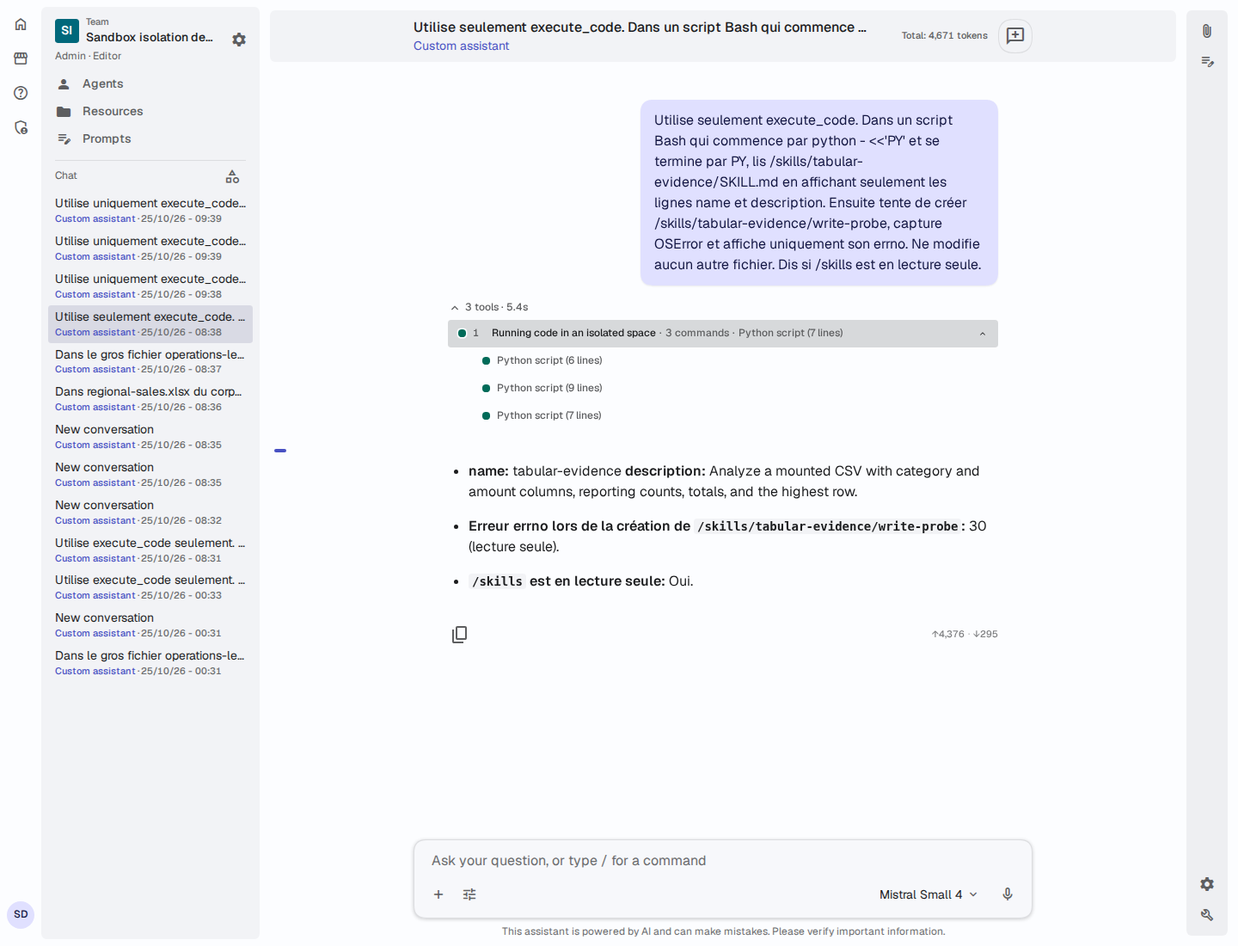
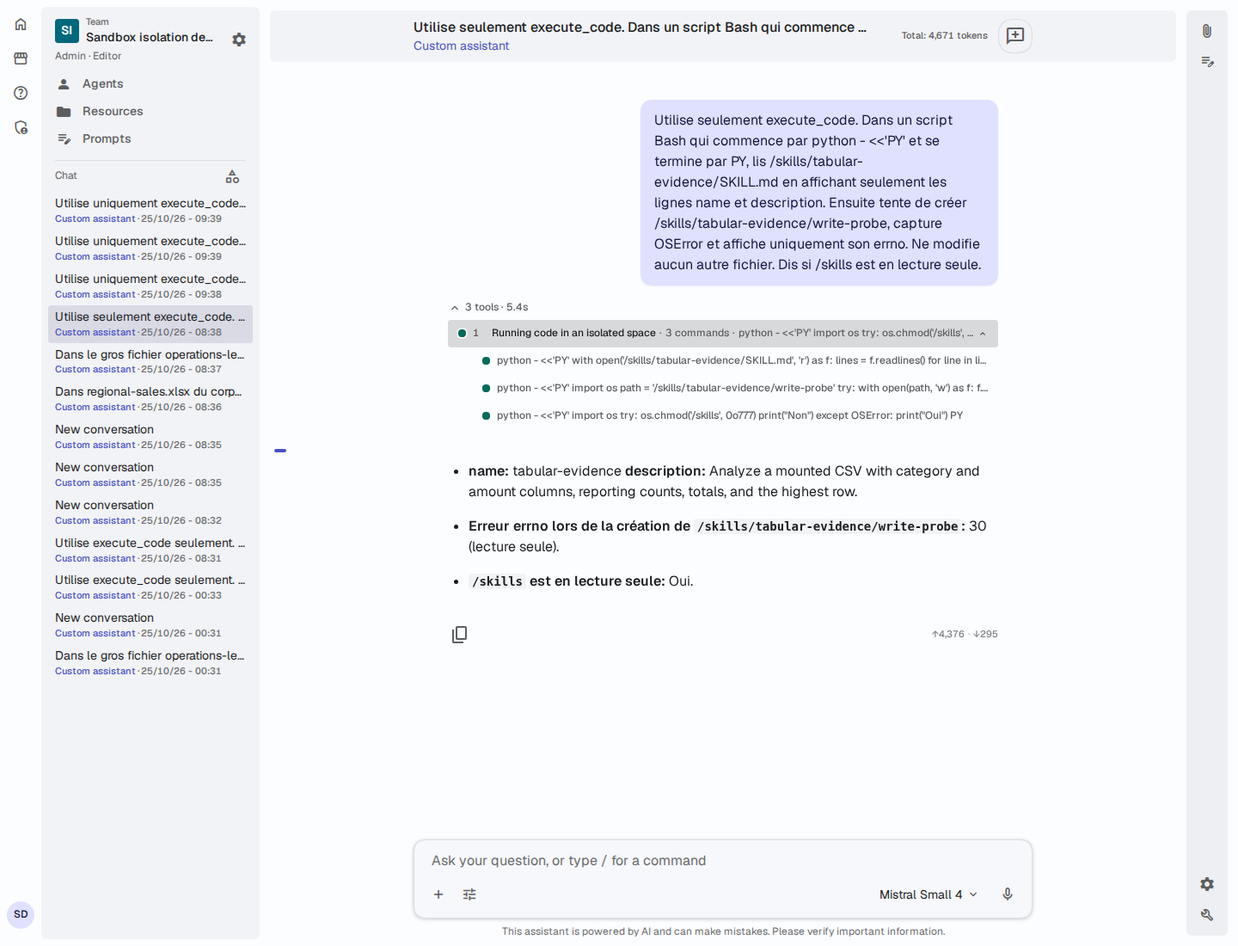
impr(#3226): flatten sandbox code previews in trace

Changed region(s): [[0.4062, 0.34, 0.7812, 0.4636]]

diff --git a/docs/agent-sandbox-stack.html b/docs/agent-sandbox-stack.html
@@ -173,7 +173,7 @@ document.addEventListener('DOMContentLoaded', function () {
 <section class="slide divider" data-part="3"><p class="kicker">Partie 3</p><div class="body"><div class="n">3</div><h1>Chaque couche a une responsabilité mesurable</h1></div><div class="contents"><span><b>1</b>Contrats et capability</span><span><b>2</b>Broker et isolation</span><span><b>3</b>Admin et déploiement</span></div></section>
 <section class="slide" data-part="3"><p class="kicker">Partie 3</p><h2>Le SDK fixe un contrat indépendant du backend</h2><p class="lede">Un script Bash, une identité privée, un résultat borné et un port abstrait.</p><div class="body"><div class="grid cols3"><div class="card add"><span class="tag">+</span><b class="name">SandboxRequest</b><small><span class="chip c1">fred-sdk</span> <code>fred_sdk/contracts/sandbox.py:16</code></small><p>script Bash limité à 16 384 caractères.</p></div><div class="card add"><span class="tag">+</span><b class="name">SandboxSessionIdentity</b><small><span class="chip c1">fred-sdk</span> <code>fred_sdk/contracts/sandbox.py:23</code></small><p>user, team et conversation restent hors du schéma LLM.</p></div><div class="card add"><span class="tag">+</span><b class="name">SandboxResult</b><small><span class="chip c1">fred-sdk</span> <code>fred_sdk/contracts/sandbox.py:32</code></small><p>stdout, stderr, timeout et sortie tronquée.</p></div><div class="card add"><span class="tag">+</span><b class="name">SandboxError</b><small><span class="chip c1">fred-sdk</span> <code>fred_sdk/contracts/sandbox.py:43</code></small><p>Codes bornés, pas de traceback brut vers le modèle.</p></div><div class="card add"><span class="tag">+</span><b class="name">SandboxExecutionPort</b><small><span class="chip c1">fred-sdk</span> <code>fred_sdk/contracts/sandbox.py:61</code></small><p>execute(request, session) rend le backend interchangeable.</p></div><div class="card add"><span class="tag">+</span><b class="name">Tests du contrat</b><small><span class="chip c1">fred-sdk</span> <code>tests/test_sandbox_contract.py</code></small><p>Validation stricte des modèles et du port.</p></div></div></div></section>
 <section class="slide" data-part="3"><p class="kicker">Partie 3</p><h2>La capability expose un outil administré</h2><p class="lede">Le modèle ne choisit ni image, ni runtime, ni ressource.</p><div class="body"><div class="grid cols3"><div class="card add"><span class="tag">+</span><b class="name">CodeSandboxCapability</b><small><span class="chip c2">capability</span> <code>fred_capability_code_sandbox/capability.py:32</code></small><p>ID code_sandbox, TeamScopePolicy.ADMIN_GATED.</p></div><div class="card add"><span class="tag">+</span><b class="name">execute_code</b><small><span class="chip c2">capability</span> <code>fred_capability_code_sandbox/capability.py:46</code></small><p>Argument code uniquement; démarre le workload au premier appel.</p></div><div class="card add"><span class="tag">+</span><b class="name">Session privée</b><small><span class="chip c2">capability</span> <code>fred_capability_code_sandbox/capability.py:55</code></small><p>Dérivée de ctx.identity, jamais demandée au modèle.</p></div><div class="card add"><span class="tag">+</span><b class="name">Résultat outil</b><small><span class="chip c2">capability</span> <code>fred_capability_code_sandbox/capability.py:72</code></small><p>JSON explicite; sortie considérée comme donnée non fiable.</p></div><div class="card add"><span class="tag">+</span><b class="name">Vue automatique /inputs</b><small><span class="chip c2">capability</span> <code>fred_capability_code_sandbox/capability.py</code></small><p>La vue est préparée avant le premier execute_code; /inputs/corpus et /inputs/attachments sont listés automatiquement.</p></div><div class="card add"><span class="tag">+</span><b class="name">Tests capability</b><small><span class="chip c2">capability</span> <code>tests/test_capability.py</code></small><p>Fake port, schéma et préparation de la vue autorisée.</p></div></div></div></section>
-<section class="slide" data-part="3"><p class="kicker">Partie 3 - recherche par code</p><h2>Filtrer dans la sandbox avant de répondre</h2><p class="lede">La consigne demande à l'agent d'écrire du Bash dans execute_code et d'appeler Python depuis le shell et de ne renvoyer que des extraits ciblés.</p><div class="body"><div class="grid cols3"><div class="card add"><h3>Découvrir</h3><p>Un glob ou find restreint les noms et les répertoires. Éviter l'inventaire complet de /inputs.</p></div><div class="card add"><h3>Texte</h3><p>La consigne propose grep -F pour les termes littéraux et Python pour cinq extraits de 240 caractères au plus.</p></div><div class="card add"><h3>Variantes</h3><p>Échapper les termes avant la regex, puis accepter espaces, tirets et underscores; ignorer la casse.</p></div><div class="card sec"><h3>Documents</h3><p>Inspecter pages, paragraphes ou slides un à un. N'imprimer que les extraits trouvés et leur emplacement.</p></div><div class="card sec"><h3>Tables</h3><p>Filtrer lignes et colonnes CSV; ouvrir Excel en lecture seule, puis agréger les seules lignes utiles.</p></div><div class="card same"><h3>Présentation</h3><p>La trace regroupe les appels de code consécutifs. Son en-tête garde le nombre de commandes et celle en cours. Un court commentaire # en début de script sert de libellé; sans commentaire, un heredoc Python devient Script Python (N lignes). Le détail conserve le script Bash et le résultat complets. Un code de sortie non nul marque la commande en échec. Un autre outil coupe le groupe.</p></div></div></div></section>
+<section class="slide" data-part="3"><p class="kicker">Partie 3 - recherche par code</p><h2>Filtrer dans la sandbox avant de répondre</h2><p class="lede">La consigne demande à l'agent d'écrire du Bash dans execute_code et d'appeler Python depuis le shell et de ne renvoyer que des extraits ciblés.</p><div class="body"><div class="grid cols3"><div class="card add"><h3>Découvrir</h3><p>Un glob ou find restreint les noms et les répertoires. Éviter l'inventaire complet de /inputs.</p></div><div class="card add"><h3>Texte</h3><p>La consigne propose grep -F pour les termes littéraux et Python pour cinq extraits de 240 caractères au plus.</p></div><div class="card add"><h3>Variantes</h3><p>Échapper les termes avant la regex, puis accepter espaces, tirets et underscores; ignorer la casse.</p></div><div class="card sec"><h3>Documents</h3><p>Inspecter pages, paragraphes ou slides un à un. N'imprimer que les extraits trouvés et leur emplacement.</p></div><div class="card sec"><h3>Tables</h3><p>Filtrer lignes et colonnes CSV; ouvrir Excel en lecture seule, puis agréger les seules lignes utiles.</p></div><div class="card same"><h3>Présentation</h3><p>La trace regroupe les appels de code consécutifs. Son en-tête garde le nombre de commandes et celle en cours. Un court commentaire # en début de script précède le code soumis, dont les retours à la ligne sont remplacés par des espaces dans un aperçu sur une ligne, tronqué avec ... si nécessaire. Le heredoc et son contenu restent visibles dans cet aperçu jusqu'à la troncature. Le détail conserve le script Bash et le résultat complets. Un code de sortie non nul marque la commande en échec. Un autre outil coupe le groupe.</p></div></div></div></section>
 <section class="slide" data-part="3"><p class="kicker">Partie 3</p><h2>Le runtime crée un adaptateur HTTP privé</h2><p class="lede">Le runtime garde l’autorisation des outils et ajoute le broker comme service optionnel.</p><div class="body"><div class="grid cols3"><div class="card add"><span class="tag">+</span><b class="name">SandboxHttpAdapter</b><small><span class="chip c3">fred-runtime</span> <code>fred_runtime/sandbox_http.py:23</code></small><p>HTTPS + bearer; validation de réponse et erreurs bornées.</p></div><div class="card add"><span class="tag">+</span><b class="name">Configuration</b><small><span class="chip c3">fred-runtime</span> <code>fred_runtime/sandbox_http.py:59</code></small><p>URL et token viennent de l’environnement du pod.</p></div><div class="card add"><span class="tag">+</span><b class="name">Service binding</b><small><span class="chip c3">fred-runtime</span> <code>fred_runtime/app/agent_app.py:6740</code></small><p>Injecte le port lors de l’activation des capabilities.</p></div><div class="card add"><span class="tag">+</span><b class="name">Runtime context</b><small><span class="chip c3">fred-runtime</span> <code>fred_runtime/runtime_context.py</code></small><p>Transporte l’identité de conversation sans argument LLM.</p></div><div class="card add"><span class="tag">+</span><b class="name">Tests HTTP</b><small><span class="chip c3">fred-runtime</span> <code>tests/test_sandbox_http.py</code></small><p>Vérifient transport et erreurs.</p></div><div class="card same"><span class="tag">=</span><b class="name">Contrat gelé</b><small><span class="chip c3">fred-runtime</span> <code>docs/swift/design/RUNTIME-EXECUTION-CONTRACT.md</code></small><p>Le pod reste l’autorité des droits d’exécution Fred.</p></div></div></div></section>
 <section class="slide" data-part="3"><p class="kicker">Partie 3</p><h2>Le pod agents installe la capability</h2><p class="lede">L’entrée de découverte reste unique pour ReAct, Deep et Graph.</p><div class="body"><div class="grid cols3"><div class="card add"><span class="tag">+</span><b class="name">Dépendance</b><small><span class="chip c4">fred-agents</span> <code>pyproject.toml:25</code></small><p>Le package capability entre dans l’image agents.</p></div><div class="card add"><span class="tag">+</span><b class="name">Source editable</b><small><span class="chip c4">fred-agents</span> <code>pyproject.toml:73</code></small><p>Le workspace relie le package local.</p></div><div class="card add"><span class="tag">+</span><b class="name">Image</b><small><span class="chip c4">fred-agents</span> <code>dockerfiles/Dockerfile-prod</code></small><p>Le Dockerfile copie et installe la capability.</p></div><div class="card add"><span class="tag">+</span><b class="name">Boot invariant</b><small><span class="chip c4">fred-agents</span> <code>tests/test_capability_boot.py:126</code></small><p>Le test de découverte épingle code_sandbox.</p></div><div class="card add"><span class="tag">+</span><b class="name">Configuration runtime</b><small><span class="chip c4">fred-agents</span> <code>dockerfiles/Dockerfile-prod</code></small><p>Endpoint broker et bearer restent côté pod.</p></div></div></div></section>
 <section class="slide" data-part="3"><p class="kicker">Partie 3</p><h2>Le broker borne chaque lease et chaque exécution</h2><p class="lede">Son interface interne est preflight, prepare, execute, dispose.</p><div class="body"><div class="grid cols4"><div class="card add"><span class="tag">+</span><b class="name">API</b><small><span class="chip c5">sandbox-broker</span> <code>sandbox_broker/api.py:33</code></small><p>Bearer, tailles et admission.</p></div><div class="card add"><span class="tag">+</span><b class="name">Backend protocol</b><small><span class="chip c5">sandbox-broker</span> <code>sandbox_broker/backend.py:27</code></small><p>Une lease typée pour trois implémentations.</p></div><div class="card add"><span class="tag">+</span><b class="name">ConversationPool</b><small><span class="chip c5">sandbox-broker</span> <code>sandbox_broker/sessions.py:29</code></small><p>Sérialisation et idle expiry.</p></div><div class="card add"><span class="tag">+</span><b class="name">Process sweep</b><small><span class="chip c5">sandbox-broker</span> <code>sandbox_broker/process_cleanup.py:39</code></small><p>Détruit les descendants détachés avant réusage.</p></div><div class="card add"><span class="tag">+</span><b class="name">Kubernetes Job</b><small><span class="chip c5">sandbox-broker</span> <code>sandbox_broker/kubernetes_backend.py:23</code></small><p>RuntimeClass, deadline et TTL.</p></div><div class="card add"><span class="tag">+</span><b class="name">SIG Agent Sandbox</b><small><span class="chip c5">sandbox-broker</span> <code>sandbox_broker/agent_sandbox_backend.py:21</code></small><p>Claim, pool upstream et expiry.</p></div><div class="card add"><span class="tag">+</span><b class="name">Docker</b><small><span class="chip c5">sandbox-broker</span> <code>sandbox_broker/docker_backend.py:18</code></small><p>Runtime isolé et réseau none.</p></div><div class="card add"><span class="tag">+</span><b class="name">WarmPool</b><small><span class="chip c5">sandbox-broker</span> <code>sandbox_broker/pool.py:21</code></small><p>Capacité non assignée, optionnelle.</p></div></div></div></section>

diff --git a/apps/frontend/src/rework/components/shared/molecules/ThoughtTrace/ThoughtTrace.grouping.test.tsx b/apps/frontend/src/rework/components/shared/molecules/ThoughtTrace/ThoughtTrace.grouping.test.tsx
@@ -34,12 +34,6 @@ vi.mock("react-i18next", () => ({
       if (key === "rework.chatTrace.toolLabels.codeSandbox") return "Code in sandbox";
       if (key === "rework.chatTrace.toolGroups.commands")
         return `${values?.count} ${values?.count === 1 ? "command" : "commands"}`;
-      if (key === "rework.chatTrace.toolGroups.pythonScript")
-        return `Python script (${values?.count} ${values?.count === 1 ? "line" : "lines"})`;
-      if (key === "rework.chatTrace.toolGroups.shellScript")
-        return `Shell script (${values?.count} ${values?.count === 1 ? "line" : "lines"})`;
-      if (key === "rework.chatTrace.toolGroups.pythonScriptUncounted") return "Python script";
-      if (key === "rework.chatTrace.toolGroups.shellScriptUncounted") return "Shell script";
       if (key === "test.summaries") return `${values?.count} summaries`;
       return key;
     },
@@ -153,8 +147,7 @@ describe("ThoughtTrace code groups", () => {
     renderTrace([first]);
     const group = groups()[0];
     expect(group.textContent).toContain("find /inputs -name '*.csv'");
-    expect(group.textContent).toContain("find /inputs -name '*.csv' ...");
-    expect(group.textContent).not.toContain("echo hidden");
+    expect(group.textContent).toContain("find /inputs -name '*.csv' echo hidden");
     act(() => group.click());
 
     const second = call("c2", "execute_code", "grep -Fi phrase /inputs/table.csv", 3);
@@ -164,14 +157,14 @@ describe("ThoughtTrace code groups", () => {
     expect(group.getAttribute("aria-expanded")).toBe("true");
     expect(group.textContent).toContain("grep -Fi phrase /inputs/table.csv");
     const firstCommand = [...container.querySelectorAll("button")].find((button) =>
-      button.textContent?.includes("find /inputs -name '*.csv' ..."),
+      button.textContent?.includes("find /inputs -name '*.csv' echo hidden"),
     );
     act(() => firstCommand!.click());
     expect(opened).toEqual(["c1"]);
   });
 
   it("bounds a long command preview and keeps it on one line", () => {
-    renderTrace([call("c1", "execute_code", `grep ${"x".repeat(200)}\necho later`, 1)]);
+    renderTrace([call("c1", "execute_code", `grep ${"x".repeat(400)}\necho later`, 1)]);
     const text = groups()[0].textContent ?? "";
     expect(text).toContain("...");
     expect(text).not.toContain("echo later");
@@ -182,7 +175,7 @@ describe("ThoughtTrace code groups", () => {
     expect(child?.textContent).not.toContain("echo later");
   });
 
-  it("hides an unlabeled Python heredoc launcher behind a neutral script label", () => {
+  it("flattens an unlabeled Python script into a single bounded preview", () => {
     renderTrace([
       call(
         "c1",
@@ -191,18 +184,18 @@ describe("ThoughtTrace code groups", () => {
         1,
       ),
     ]);
-    expect(groups()[0].textContent).toContain("Python script (3 lines)");
-    expect(groups()[0].textContent).not.toContain("<<'PY'");
-    expect(groups()[0].textContent).not.toContain("from pypdf import PdfReader");
+    expect(groups()[0].textContent).toContain("python - <<'PY' from pypdf import PdfReader");
+    expect(groups()[0].textContent).toContain("for page in reader.pages: print(page) PY");
+    expect(groups()[0].textContent).not.toContain("\n");
     act(() => groups()[0].click());
     const child = [...container.querySelectorAll("button")].find((button) =>
-      button.textContent?.includes("Python script (3 lines)"),
+      button.textContent?.includes("python - <<'PY' from pypdf import PdfReader"),
     );
-    expect(child?.textContent).not.toContain("from pypdf");
-    expect(child?.getAttribute("aria-label")).toContain("Python script (3 lines)");
+    expect(child?.textContent).toContain("print(page) PY");
+    expect(child?.getAttribute("aria-label")).toContain("python - <<'PY' from pypdf import PdfReader");
   });
 
-  it("uses a leading intent comment without guessing a Python body line", () => {
+  it("shows a leading intent comment and the Python launcher on one line", () => {
     renderTrace([
       call(
         "c1",
@@ -211,9 +204,14 @@ describe("ThoughtTrace code groups", () => {
         1,
       ),
     ]);
-    expect(groups()[0].textContent).toContain("Search HELIOS-4821 in the attached PDF");
-    expect(groups()[0].textContent).not.toContain("<<'PY'");
-    expect(groups()[0].textContent).not.toContain('if "HELIOS-4821"');
+    expect(groups()[0].textContent).toContain("Search HELIOS-4821 in the attached PDF - python - <<'PY'");
+    expect(groups()[0].textContent).toContain('if "HELIOS-4821" in text: print(text) PY');
+    expect(groups()[0].textContent).not.toContain("\n");
+  });
+
+  it("accepts a leading comment without a space after the hash", () => {
+    renderTrace([call("c1", "execute_code", "#Search report\npython - <<'PY'\nprint(42)\nPY", 1)]);
+    expect(groups()[0].textContent).toContain("Search report - python - <<'PY' print(42) PY");
   });
 
   it("keeps the command count and current intent in the group heading", () => {
@@ -223,49 +221,36 @@ describe("ThoughtTrace code groups", () => {
       call("c2", "execute_code", "# Calculate the Lyon margin\npython - <<'PY'\nprint(41.22)\nPY", 3),
     ]);
     expect(groups()[0].textContent).toContain("2 commands");
-    expect(groups()[0].textContent).toContain("Calculate the Lyon margin");
+    expect(groups()[0].textContent).toContain("Calculate the Lyon margin - python - <<'PY' print(41.22) PY");
     expect(groups()[0].textContent).not.toContain("Locate the workbook");
     act(() => groups()[0].click());
     expect(container.textContent).toContain("Locate the workbook");
     expect(container.textContent).toContain("Calculate the Lyon margin");
   });
 
-  it("uses a neutral shell label for another heredoc", () => {
+  it("shows another launcher without classifying its heredoc", () => {
     renderTrace([call("c1", "execute_code", "cat <<EOF\nhello\nEOF", 1)]);
-    expect(groups()[0].textContent).toContain("Shell script (1 line)");
-    expect(groups()[0].textContent).not.toContain("<<EOF");
+    expect(groups()[0].textContent).toContain("cat <<EOF hello EOF");
   });
 
-  it.each([
-    "python <<'PY'",
-    "python3 -u - <<'PY'",
-    "/usr/bin/python3.12 <<'PY'",
-    "python<<'PY'",
-    "python - <<'PY' # calculate answer",
-  ])("recognizes a Python heredoc launched with %s", (launcher) => {
-    renderTrace([call("c1", "execute_code", `${launcher}\nprint(42)\nPY`, 1)]);
-    expect(groups()[0].textContent).toContain("Python script (1 line)");
+  it("keeps the launcher visible after a long intent comment", () => {
+    renderTrace([call("c1", "execute_code", `# ${"Search the corpus ".repeat(8)}\npython - <<'PY'\nprint(42)\nPY`, 1)]);
+    expect(groups()[0].textContent).toContain("Search the corpus");
+    expect(groups()[0].textContent).toContain("python - <<'PY' print(42) PY");
   });
 
-  it("does not claim a source line count for an unfinished heredoc", () => {
-    renderTrace([call("c1", "execute_code", "python <<'PY'\nprint(42)", 1)]);
-    expect(groups()[0].textContent).toContain("Python script");
-    expect(groups()[0].textContent).not.toContain("lines");
-    expect(groups()[0].textContent).not.toContain("<<'PY'");
-  });
-
-  it("keeps an unfamiliar heredoc launcher out of the preview", () => {
-    renderTrace([call("c1", "execute_code", "python - <<'PY' > /tmp/out\nprint(42)\nPY", 1)]);
-    expect(groups()[0].textContent).toContain("Python script");
-    expect(groups()[0].textContent).not.toContain("<<'PY'");
-    expect(groups()[0].textContent).not.toContain("lines");
+  it("keeps additional comments in the flattened source preview", () => {
+    renderTrace([
+      call("c1", "execute_code", "# Search the corpus\n# Keep output short\npython - <<'PY'\nprint(42)\nPY", 1),
+    ]);
+    expect(groups()[0].textContent).toContain("Search the corpus - # Keep output short python - <<'PY' print(42) PY");
   });
 
   it("recognizes an intent comment after a shell shebang", () => {
     renderTrace([
       call("c1", "execute_code", "#!/bin/bash\n# Search the mounted corpus\ngrep -Fi term /inputs/corpus/file", 1),
     ]);
-    expect(groups()[0].textContent).toContain("Search the mounted corpus");
+    expect(groups()[0].textContent).toContain("Search the mounted corpus - grep -Fi term /inputs/corpus/file");
     expect(groups()[0].textContent).not.toContain("#!/bin/bash");
   });
 

diff --git a/apps/frontend/src/rework/components/shared/molecules/ThoughtTrace/ThoughtTrace.tsx b/apps/frontend/src/rework/components/shared/molecules/ThoughtTrace/ThoughtTrace.tsx
@@ -73,38 +73,35 @@ function useSummaryLabel(summary: TraceSummary): string {
 /** Stable empty identity, so the collapsed memo never yields a new array. */
 const EMPTY_ROWS: TraceRow[] = [];
 
-function codePreview(code: string, scriptLabel: (kind: "python" | "shell", count?: number) => string): string {
-  const lines = code.trimEnd().split(/\r?\n/);
-  const visibleLines = lines
-    .map((line, index) => ({ text: line.trim().replace(/\s+/g, " "), index }))
-    .filter(({ text }) => Boolean(text));
-  const firstIndex = visibleLines[0]?.text.startsWith("#!") && visibleLines.length > 1 ? 1 : 0;
-  const first = visibleLines[firstIndex]?.text ?? "";
-  const intent = visibleLines.length > firstIndex + 1 ? /^#\s+(.+)$/.exec(first)?.[1] : undefined;
-  const heredoc = /^(.*?)\s*<<(-?)(?:'([^']+)'|"([^"]+)"|([A-Za-z_][A-Za-z_0-9]*))(?:\s+#.*)?\s*$/.exec(first);
-  const delimiter = heredoc?.[3] ?? heredoc?.[4] ?? heredoc?.[5];
-  const closeIndex = delimiter
-    ? lines.findIndex((line, index) => {
-        if (index <= visibleLines[firstIndex].index) return false;
-        return (heredoc?.[2] ? line.replace(/^\t+/, "") : line) === delimiter;
-      })
-    : -1;
-  const python =
-    /^(?:(?:uv\s+run|env(?:\s+[A-Za-z_]\w*=\S+)*)\s+)?(?:\S*\/)?python(?:3(?:\.\d+)?)?(?:\s+-[A-Za-z0-9]*)*$/.test(
-      heredoc?.[1]?.trim() ?? first.split("<<", 1)[0]?.trim() ?? "",
-    );
-  const preview = intent
-    ? intent
-    : heredoc
-      ? scriptLabel(
-          python ? "python" : "shell",
-          closeIndex < 0 ? undefined : closeIndex - visibleLines[firstIndex].index - 1,
-        )
-      : first.includes("<<") && visibleLines.length > firstIndex + 1
-        ? scriptLabel(python ? "python" : "shell")
-        : `${first}${visibleLines.length > firstIndex + 1 ? " ..." : ""}`;
-  return preview.length > 120 ? `${preview.slice(0, 117).trimEnd()}...` : preview;
+function codePreview(code: string): string {
+  const lines = code
+    .split(/\r?\n/)
+    .map((line) => line.trim().replace(/\s+/g, " "))
+    .filter(Boolean);
+  const firstIndex = lines[0]?.startsWith("#!") && lines.length > 1 ? 1 : 0;
+  const visibleLines = lines.slice(firstIndex);
+  const first = visibleLines[0] ?? "";
+  const comment = first.startsWith("#") && !first.startsWith("#!") ? first.slice(1).trim() : "";
+  const intent = comment.length > 60 ? `${comment.slice(0, 57)}...` : comment;
+  const preview = comment
+    ? `${intent}${visibleLines.length > 1 ? ` - ${visibleLines.slice(1).join(" ")}` : ""}`
+    : visibleLines.join(" ");
+  return preview.length > 320 ? `${preview.slice(0, 317).trimEnd()}...` : preview;
 }
+
+const GROUP_RULES: TraceGroupRule[] = [
+  {
+    id: "code-sandbox",
+    titleKey: "rework.chatTrace.toolLabels.codeSandbox",
+    countKey: "rework.chatTrace.toolGroups.commands",
+    matches: (entry) => toolSlug(toolName(entry.call)) === "execute_code",
+    itemLabel: () => "",
+    preview: (entry) => {
+      const code = toolArgs(entry.call).code;
+      return typeof code === "string" ? codePreview(code) : "";
+    },
+  },
+];
 
 export function ThoughtTrace({
   messages,
@@ -113,28 +110,6 @@ export function ThoughtTrace({
   hitlAnswerSummariesByCallId,
 }: ThoughtTraceProps) {
   const { t } = useTranslation();
-  const groupRules = useMemo<TraceGroupRule[]>(
-    () => [
-      {
-        id: "code-sandbox",
-        titleKey: "rework.chatTrace.toolLabels.codeSandbox",
-        countKey: "rework.chatTrace.toolGroups.commands",
-        matches: (entry) => toolSlug(toolName(entry.call)) === "execute_code",
-        itemLabel: () => "",
-        preview: (entry) => {
-          const code = toolArgs(entry.call).code;
-          return typeof code === "string"
-            ? codePreview(code, (kind, count) =>
-                count === undefined
-                  ? t(`rework.chatTrace.toolGroups.${kind}ScriptUncounted`)
-                  : t(`rework.chatTrace.toolGroups.${kind}Script`, { count }),
-              )
-            : "";
-        },
-      },
-    ],
-    [t],
-  );
   // Memoized: this fold runs on every streamed delta, and the page re-renders
   // for reasons of its own on top of that.
   const entries = useMemo(() => groupTraceEntries(messages), [messages]);
@@ -146,7 +121,7 @@ export function ThoughtTrace({
   // conversation on every token — and traceRows flattens markdown. Behind the
   // toggle, a long history's collapsed traces cost nothing per token.
   const rows = useMemo(() => (expanded ? traceRows(entries) : EMPTY_ROWS), [entries, expanded]);
-  const displayItems = useMemo(() => groupTraceRows(rows, groupRules, messages), [rows, groupRules, messages]);
+  const displayItems = useMemo(() => groupTraceRows(rows, GROUP_RULES, messages), [rows, messages]);
 
   if (entries.length === 0) return null;
 

diff --git a/openspec/changes/connect-agent-sandbox-filesystem/specs/agent-code-sandbox/spec.md b/openspec/changes/connect-agent-sandbox-filesystem/specs/agent-code-sandbox/spec.md
@@ -14,7 +14,7 @@ The system SHALL expose an admin-gated `execute_code(code)` tool whose sole mode
 ## ADDED Requirements
 
 ### Requirement: Grouped code execution trace
-The chat thought trace SHALL display a consecutive run of `execute_code` calls in one assistant turn as one expandable activity. Its single-line heading SHALL show the command count and a bounded preview of the running command, or the latest command when none is running. Expanding it SHALL show commands in chronological order with their status and links to full code and result details. A short leading shell comment on a multiline script SHALL supply its intent preview without being treated as evidence of what the script actually did. An unlabeled Python heredoc SHALL show a localized neutral script-and-line-count label without its delimiter; an unrecognized heredoc SHALL use a neutral shell-script label. Ordinary shell commands SHALL keep their bounded first-line preview with `...` when following code is omitted. The tool SHALL still execute and retain the submitted code unchanged. Reasoning between consecutive code calls SHALL remain in sequence. A different tool, including `summarize_document`, SHALL end the current activity; a later code call SHALL start a new activity. The grouping mechanism SHALL allow another tool family to opt in through a presentation rule without changing stored trace events.
+The chat thought trace SHALL display a consecutive run of `execute_code` calls in one assistant turn as one expandable activity. Its single-line heading SHALL show the command count and a bounded preview of the running command, or the latest command when none is running. Expanding it SHALL show commands in chronological order with their status and links to full code and result details. A short leading shell comment on a multiline script SHALL supply its intent preview, followed by the submitted code flattened in source order onto one line; neither SHALL be treated as evidence of what the script actually did. A long preview SHALL be truncated with `...`. It SHALL not parse or classify heredoc syntax. The tool SHALL still execute and retain the submitted code unchanged. Reasoning between consecutive code calls SHALL remain in sequence. A different tool, including `summarize_document`, SHALL end the current activity; a later code call SHALL start a new activity. The grouping mechanism SHALL allow another tool family to opt in through a presentation rule without changing stored trace events.
 
 #### Scenario: Multiple code calls
 - **WHEN** an agent executes a Bash command and a Bash script invoking Python consecutively in one turn
@@ -22,11 +22,11 @@ The chat thought trace SHALL display a consecutive run of `execute_code` calls i
 
 #### Scenario: Intent comment on a multiline script
 - **WHEN** a script starts with `# Search HELIOS-4821 in the attached PDF` before a Python heredoc
-- **THEN** the group and command row show that bounded intent while the tool detail retains the exact comment, launcher, body and result
+- **THEN** the group and command row show that bounded intent followed by the launcher and Python body flattened onto one line, while the tool detail retains the exact comment, launcher, body and result
 
-#### Scenario: Unlabeled heredoc
-- **WHEN** a script starts with a Python heredoc and has no leading intent comment
-- **THEN** the preview shows a neutral localized Python-script label and counts only source lines between delimiters, without exposing the heredoc delimiter
+#### Scenario: Unlabeled multiline script
+- **WHEN** a script starts with `python - <<'PY'` and has no leading intent comment
+- **THEN** the preview starts with `python - <<'PY'` and continues with its body and closing delimiter in source order on one line, up to the preview limit
 
 #### Scenario: Other tool between code calls
 - **WHEN** an agent executes code, calls `summarize_document`, and executes code again

diff --git a/docs/swift/ops/agent-sandbox-demo/README.md b/docs/swift/ops/agent-sandbox-demo/README.md
@@ -1,12 +1,12 @@
 # Agent sandbox: k3d browser evidence
 
-These captures show real Fred conversations on `k3d-fred-secondary` on 24-25 October 2026. The test agent had only `code_sandbox` enabled. The guest used gVisor, SIG Agent Sandbox with a zero-replica WarmPool, and read-only rclone CSI mounts. The corpus and attachment files are synthetic. The skill, Excel, PDF attachment and large corpus captures were refreshed on 25 October with the Bash-only tool contract. Each chat capture shows grouped shell commands: a leading shell comment labels a multiline script, an unlabeled heredoc receives a neutral script label, and `...` marks additional lines of an ordinary command. Each detail capture shows the complete Bash script and result. A nonzero exit code marks a command as failed in the trace.
+These captures show real Fred conversations on `k3d-fred-secondary` on 24-25 October 2026. The test agent had only `code_sandbox` enabled. The guest used gVisor, SIG Agent Sandbox with a zero-replica WarmPool, and read-only rclone CSI mounts. The corpus and attachment files are synthetic. The skill, Excel, PDF attachment and large corpus captures were refreshed on 25 October with the Bash-only tool contract. Each chat capture shows grouped shell commands: a leading shell comment labels a multiline script, followed by the submitted code flattened onto one visually truncated line, including any heredoc. Each detail capture shows the complete Bash script and result. A nonzero exit code marks a command as failed in the trace.
 
 The cluster was deleted and rebuilt with the factory `make k3d-wipe`, `make k3d-up`, `make k3d-sandbox-smoke`, `make k3d-sandbox-files-demo` and `make k3d-app` targets. The smoke passed Bash, Python, gVisor, zero warm replicas and a read-only CSI file read. No Kubernetes resource name or persistent volume was edited by hand.
 
 | Scenario | Observed result | Chat | Tool detail |
 | --- | --- | --- | --- |
-| Multiline intent preview | One conversation used `ls /skills`, then a Bash heredoc invoking Python. The grouped heading kept the two-command count and showed `Compter les skills montés`. Python counted seven mounted skill descriptions; the detail retained the exact script and result. | [Chat and grouped calls](89-intent-chat.png) | [Script and result](89-intent-detail.png) |
+| Multiline intent preview | One conversation used `ls /skills`, then a Bash heredoc invoking Python. The grouped heading kept the two-command count and showed `Compter les skills montés` followed by a one-line preview of the submitted script. Python counted seven mounted skill descriptions; the detail retained the exact script and result. | [Chat and grouped calls](89-intent-chat.png) | [Script and result](89-intent-detail.png) |
 | Mounted platform skill and script | Bash listed the seven platform skills, read `tabular-evidence/SKILL.md`, and ran its mounted Python script against a CSV in the team corpus. All four commands succeeded after the concurrent view fix; totals were operations 75, research 120 and support 40. | [Chat and grouped calls](86-skill_clean-chat.png) | [Bash skill listing](86-skill_clean-ls-detail.png), [script and result](86-skill_clean-detail.png) |
 | Mounted skills, read-only | The agent read the platform `tabular-evidence` skill's Markdown in the same conversation, then a write under `/skills` failed with `EROFS` (errno 30). | [Chat](85-skill-readonly-chat.png) | [Denied write](85-skill-readonly-detail.png) |
 | Excel from team corpus | A Bash script invoked Python `openpyxl` on the original workbook in read-only mode, filtered Lyon and Paris, and returned weighted margins of 41.22% and 38.02%. Two exploratory calls failed visibly before the correct calculation. | [Chat](81-excel-chat.png) | [Command and result](81-excel-detail.png) |

diff --git a/openspec/changes/connect-agent-sandbox-filesystem/design.md b/openspec/changes/connect-agent-sandbox-filesystem/design.md
@@ -26,7 +26,7 @@ The approved skill directory is a shared source, mounted read-only by both the a
 
 7. **One Bash execution contract.** Keep `execute_code(code)` as the sole sandbox tool and run its argument with `/bin/bash -c` on every backend. The agent invokes Python explicitly from Bash, for example with `python - <<'PY'`, and keeps the full command in the tool detail. Reject unexpected request fields. Guidance still asks the agent to narrow filenames, bound matches and excerpts, and filter pages or rows before printing results. Broker output and resource limits still apply.
 
-8. **Grouped trace presentation.** Fold consecutive `execute_code` calls within one assistant turn into an expandable visual activity. Keep its single-line heading's command count and current command preview. For a multiline script, a short leading `#` comment is the model-authored intent label in the heading and expanded row. Without that comment, a Python heredoc receives a localized neutral script label that counts only source lines between delimiters; an unrecognized heredoc receives a neutral shell-script label. Omit the count when the closing delimiter is missing. Ordinary commands retain their bounded first-line preview. Do not infer a representative Python body line or add another tool argument. The detail drawer displays the full Bash script and result, including its comment and heredoc. Intervening reasoning stays in order; any different tool ends the activity, and a later code call starts another. The generic grouping mechanism remains reusable by other tool families.
+8. **Grouped trace presentation.** Fold consecutive `execute_code` calls within one assistant turn into an expandable visual activity. Keep its single-line heading's command count and current command preview. Flatten the submitted script in source order by replacing line breaks with spaces. If it starts with a short `#` comment, present that intent first, followed by the flattened code. Bound the preview and let the UI truncate its single line with `...`. This is presentation only: do not parse heredoc syntax or infer a representative Python body line. The detail drawer displays the full Bash script and result, including its comment and heredoc. Intervening reasoning stays in order; any different tool ends the activity, and a later code call starts another. The generic grouping mechanism remains reusable by other tool families.
 
 9. **Keep one live file and workload admission path.** The file view stores conversation identity, expiry and quotas; its legacy `sources` column remains empty for databases that already applied the in-flight migration. Remove the unused per-file binding port and routes because `/inputs` discovers and authorizes files on each read. Job and SIG workloads share one approved Pod-spec check, with only the SIG claim volume and Kubernetes defaulted false fields normalized. For SIG, verify the Claim -> Sandbox -> Pod controller-owner chain by UID before executing code. Recheck cluster policy before each new Job.
 

diff --git a/openspec/changes/connect-agent-sandbox-filesystem/tasks.md b/openspec/changes/connect-agent-sandbox-filesystem/tasks.md
@@ -19,7 +19,7 @@
 - [x] 3.4 Guide `execute_code` to use selective Bash or Python queries over mounted files, then verify a real conversation keeps large source content out of the tool result and final answer.
 - [x] 3.5 Group consecutive code calls in the thought trace through a reusable presentation rule, preview the active command on one ellipsized line, preserve individual details and chronology, and verify that another tool splits groups and streaming calls append to the current group.
 - [x] 3.6 Replace the language-selecting sandbox request with one Bash script argument across the capability, SDK, broker backends, smoke test and UI; verify explicit Python invocation, command previews, and strict rejection of the removed argument.
-- [x] 3.7 Use a leading shell comment as the preview for multiline code, show a neutral localized label for unlabeled heredocs, and retain the active command and count in the grouped heading; verify exact code and result remain in the detail.
+- [x] 3.7 Show a leading shell comment followed by the submitted code flattened onto one ellipsized line, without heredoc parsing; retain the active command and count in the grouped heading and verify exact code and result remain in the detail.
 
 ## 4. Integration and close-out
 

diff --git a/docs/swift/ux/COMPONENT-UX.md b/docs/swift/ux/COMPONENT-UX.md
@@ -518,7 +518,7 @@ _(none)_
 
 #### Resolved
 
-- **Sandbox command previews (2026-10-25)** - The group heading retains the command count and active command preview. A short leading shell comment labels a multiline script in the heading and child row; it describes intent, not execution evidence. An unlabeled heredoc uses a localized neutral script label and counts only source lines between its delimiters. If the delimiter is missing, the label omits the count. Ordinary commands show their bounded first line and `...` when more lines follow. The full script and result remain in the tool detail.
+- **Sandbox command previews (2026-10-25)** - The group heading retains the command count and active command preview. A short leading shell comment describes intent, followed by the submitted code in source order with line breaks replaced by spaces. The heading and child row stay on one line and end with `...` when the preview is too long. The full script and result remain in the tool detail.
 
 - **Reasoning rows still repeated a rephrased preamble (2026-09-14, #2666)** — the fix below
   only trimmed sentences identical character for character to the _previous_ block. Models
